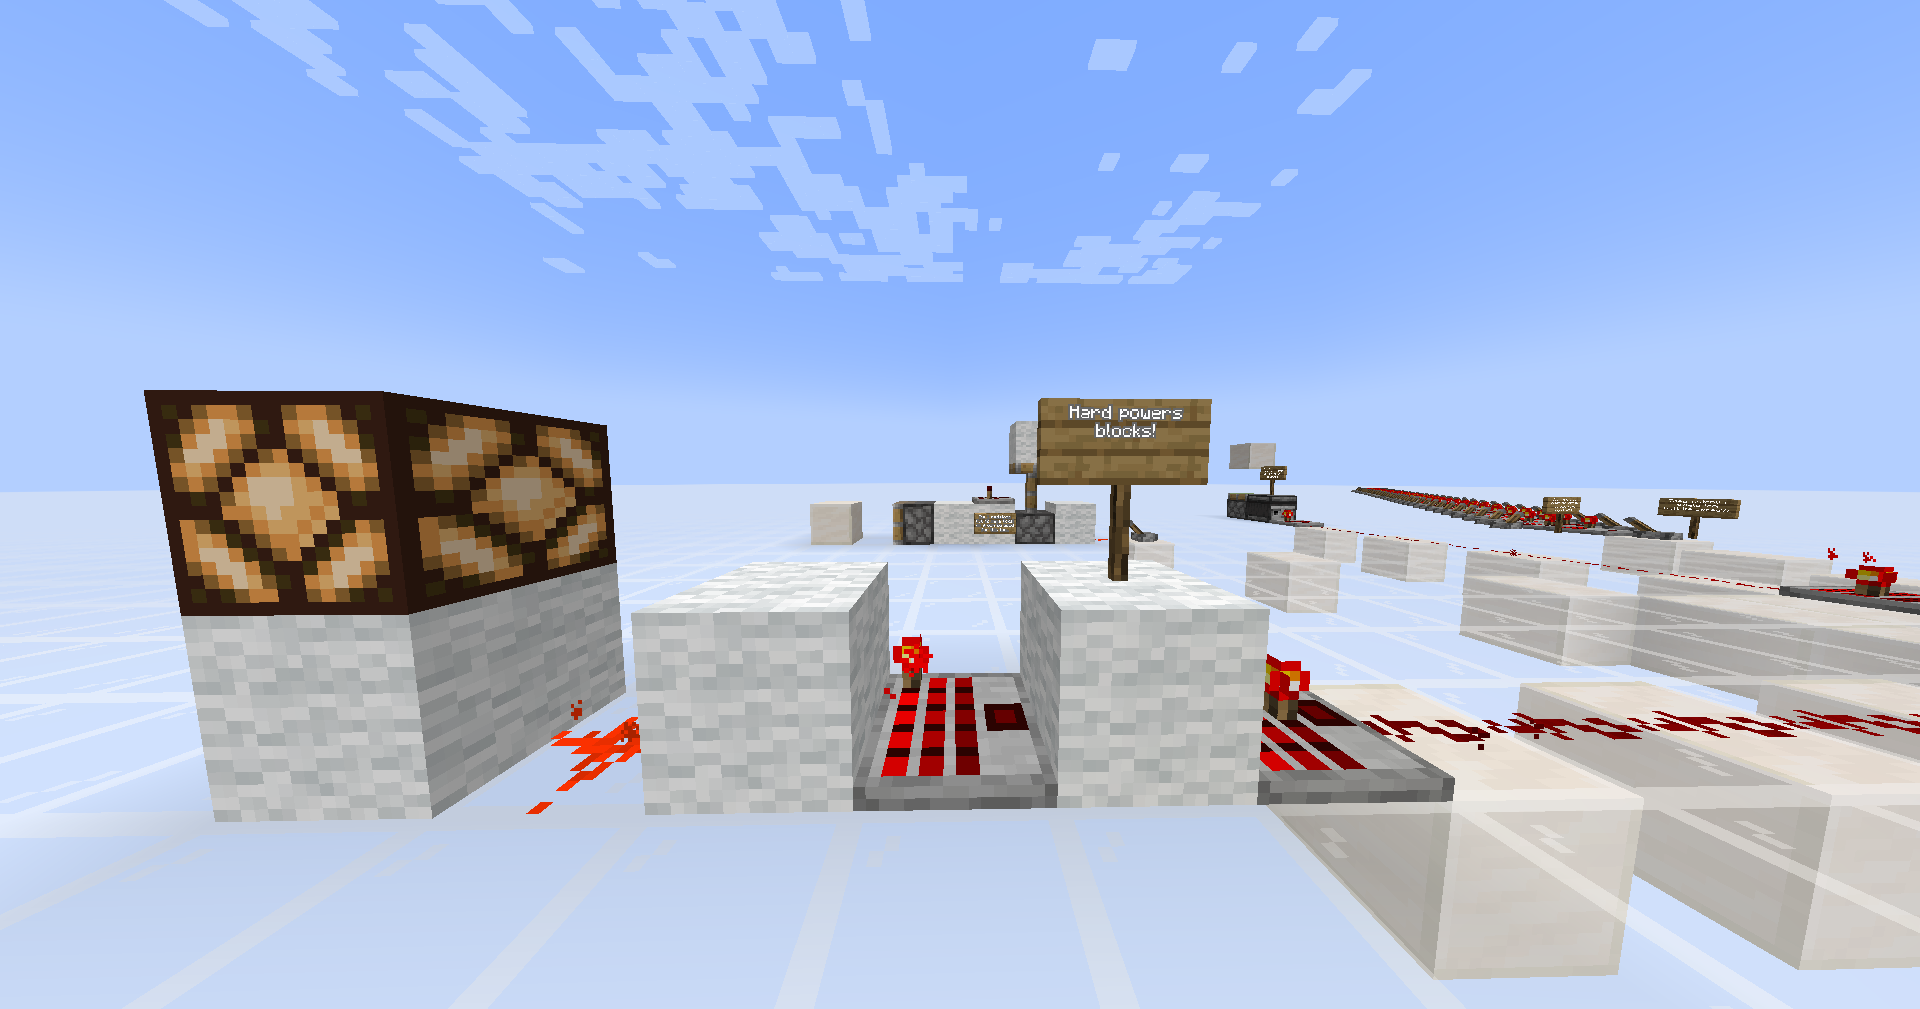
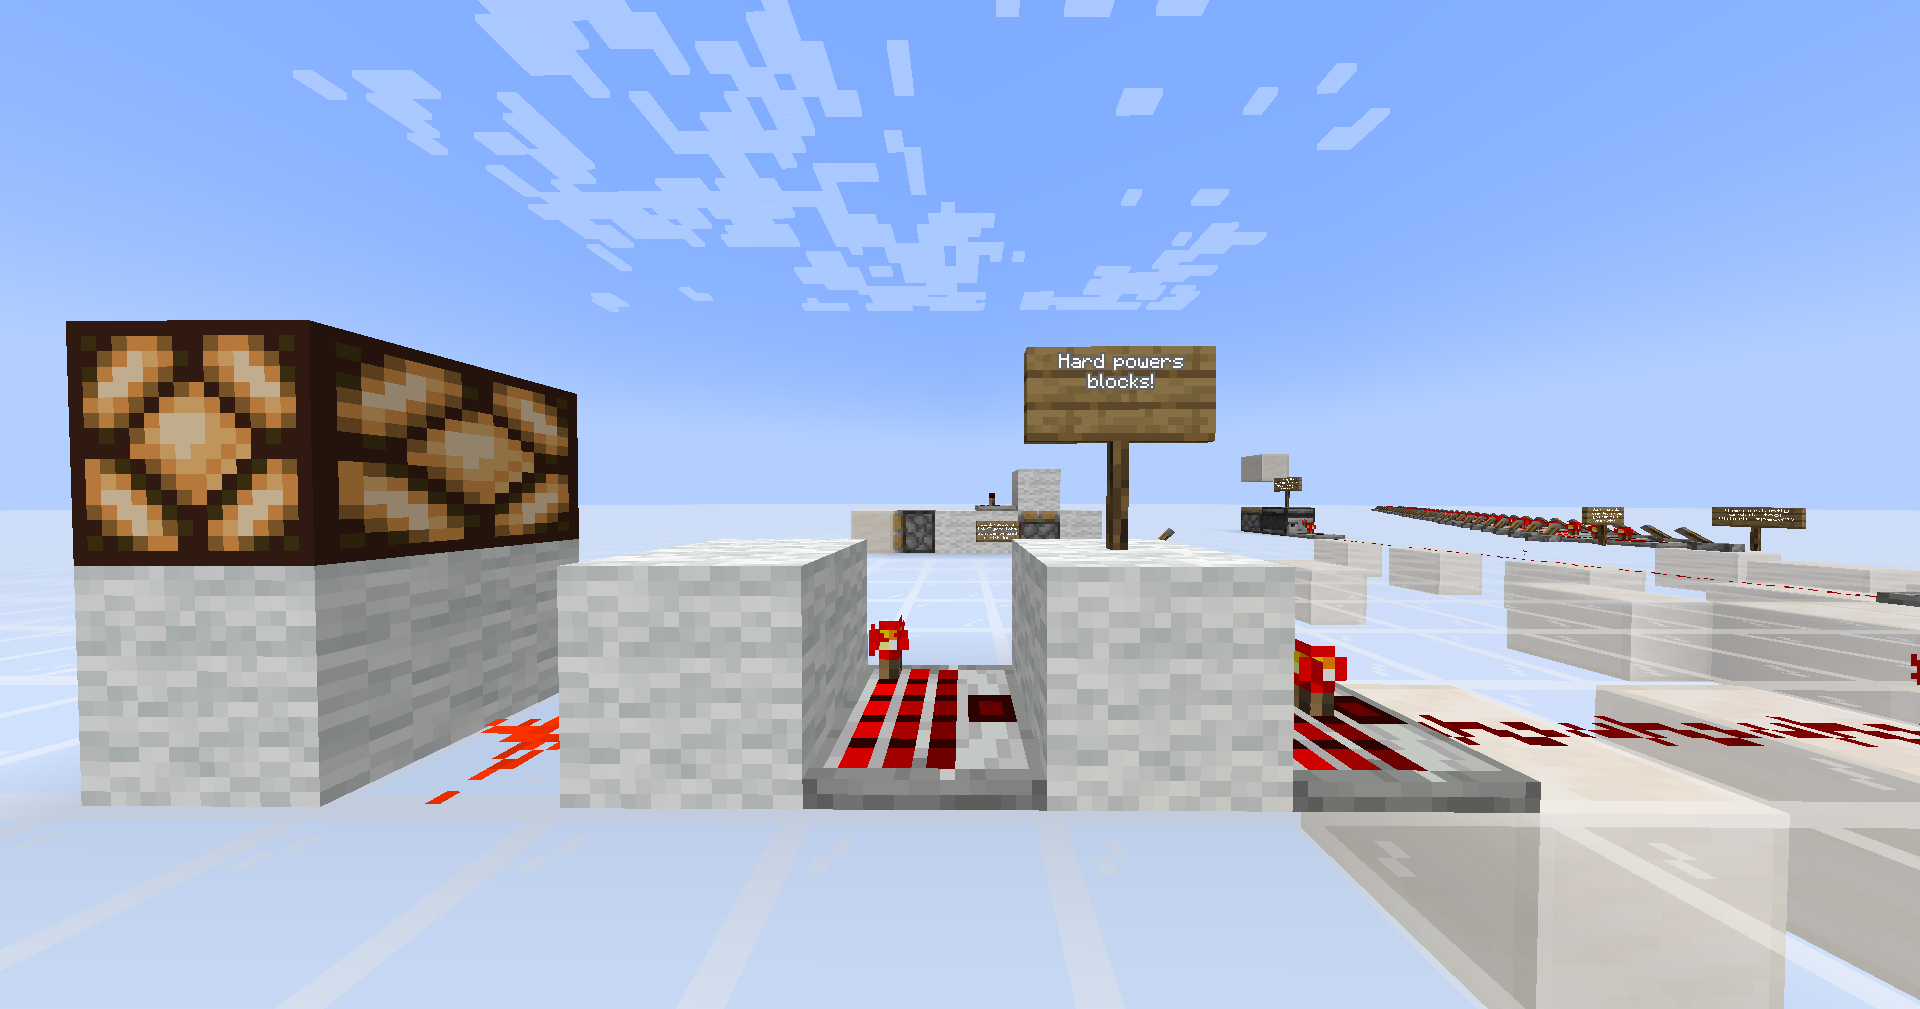
Texture Update for 1.19.1

diff --git a/remappedSrc/javredstone/redstone/transformers/block/RedstoneTransformerBlock.java b/remappedSrc/javredstone/redstone/transformers/block/RedstoneTransformerBlock.java
@@ -1,0 +1,98 @@
+package javredstone.redstone.transformers.block;
+
+import net.minecraft.block.AbstractBlock;
+import net.minecraft.block.AbstractRedstoneGateBlock;
+import net.minecraft.block.Block;
+import net.minecraft.block.BlockState;
+import net.minecraft.entity.player.PlayerEntity;
+import net.minecraft.item.ItemPlacementContext;
+import net.minecraft.particle.DustParticleEffect;
+import net.minecraft.state.StateManager;
+import net.minecraft.state.property.IntProperty;
+import net.minecraft.util.ActionResult;
+import net.minecraft.util.Hand;
+import net.minecraft.util.hit.BlockHitResult;
+import net.minecraft.util.math.BlockPos;
+import net.minecraft.util.math.Direction;
+import net.minecraft.util.math.random.Random;
+import net.minecraft.world.BlockView;
+import net.minecraft.world.World;
+import net.minecraft.world.WorldAccess;
+
+public class RedstoneTransformerBlock
+extends AbstractRedstoneGateBlock {
+    public static final IntProperty STEP = IntProperty.of("step", 0, 15);
+
+    public RedstoneTransformerBlock(AbstractBlock.Settings settings) {
+        super(settings);
+        this.setDefaultState((BlockState)((BlockState)((BlockState)((BlockState)this.stateManager.getDefaultState()).with(FACING, Direction.NORTH)).with(STEP, 0)).with(POWERED, false));
+    }
+
+    @Override
+    public ActionResult onUse(BlockState state, World world, BlockPos pos, PlayerEntity player, Hand hand, BlockHitResult hit) {
+        if (!player.getAbilities().allowModifyWorld) {
+            return ActionResult.PASS;
+        }
+        world.setBlockState(pos, (BlockState)state.cycle(STEP), Block.NOTIFY_ALL);
+        return ActionResult.success(world.isClient);
+    }
+
+    @Override
+    public int getUpdateDelayInternal(BlockState var1) {
+        return 2;
+    }
+    
+    @Override
+    public int getOutputLevel(BlockView world, BlockPos pos, BlockState state) {
+        return state.get(STEP).intValue();
+    }
+
+    public BlockState getState(WorldAccess world, BlockPos blockPos, BlockState blockState) {
+        int maxInputLevelSides = this.getMaxInputLevelSides(world, blockPos, blockState);
+        if (maxInputLevelSides > 0) {
+            return blockState.with(STEP, maxInputLevelSides);
+        } else {
+            return blockState;
+        }
+    }
+
+    @Override
+    public BlockState getPlacementState(ItemPlacementContext ctx) {
+        BlockState blockState = super.getPlacementState(ctx);
+        return getState(ctx.getWorld(), ctx.getBlockPos(), blockState);
+    }
+
+    @Override
+    public BlockState getStateForNeighborUpdate(BlockState state, Direction direction, BlockState neighborState, WorldAccess world, BlockPos pos, BlockPos neighborPos) {
+        if (!world.isClient() && direction.getAxis() != state.get(FACING).getAxis()) {
+            return getState(world, pos, state);
+        }
+        return super.getStateForNeighborUpdate(state, direction, neighborState, world, pos, neighborPos);
+    }
+
+    @Override
+    protected boolean isValidInput(BlockState state) {
+        return RedstoneTransformerBlock.isRedstoneGate(state);
+    }
+
+    @Override
+    public void randomDisplayTick(BlockState state, World world, BlockPos pos, Random random) {
+        if (!state.get(POWERED).booleanValue()) {
+            return;
+        }
+        Direction direction = state.get(FACING);
+        double d = (double)pos.getX() + 0.5 + (random.nextDouble() - 0.5) * 0.2;
+        double e = (double)pos.getY() + 0.4 + (random.nextDouble() - 0.5) * 0.2;
+        double f = (double)pos.getZ() + 0.5 + (random.nextDouble() - 0.5) * 0.2;
+        float g = -5.0f;
+        double h = (g /= 16.0f) * (float)direction.getOffsetX();
+        double i = g * (float)direction.getOffsetZ();
+        world.addParticle(DustParticleEffect.DEFAULT, d + h, e, f + i, 0.0, 0.0, 0.0);
+    }
+
+    @Override
+    protected void appendProperties(StateManager.Builder<Block, BlockState> builder) {
+        builder.add(FACING, STEP, POWERED);
+    }
+}
+

diff --git a/remappedSrc/javredstone/redstone/transformers/RedstoneTransformers.java b/remappedSrc/javredstone/redstone/transformers/RedstoneTransformers.java
@@ -1,0 +1,27 @@
+package javredstone.redstone.transformers;
+
+import javredstone.redstone.transformers.block.RedstoneTransformerBlock;
+import net.fabricmc.api.ModInitializer;
+import net.fabricmc.fabric.api.blockrenderlayer.v1.BlockRenderLayerMap;
+import net.fabricmc.fabric.api.object.builder.v1.block.FabricBlockSettings;
+import net.minecraft.block.Material;
+import net.minecraft.block.AbstractBlock.ContextPredicate;
+import net.minecraft.client.render.RenderLayer;
+import net.minecraft.item.BlockItem;
+import net.minecraft.item.Item;
+import net.minecraft.item.ItemGroup;
+import net.minecraft.sound.BlockSoundGroup;
+import net.minecraft.util.Identifier;
+import net.minecraft.util.registry.Registry;
+
+public class RedstoneTransformers implements ModInitializer {
+	public static final RedstoneTransformerBlock REDSTONE_TRANFORMER = new RedstoneTransformerBlock(FabricBlockSettings.of(Material.STONE).sounds(BlockSoundGroup.STONE).breakInstantly().nonOpaque());
+	
+	@Override
+	public void onInitialize() {
+		Registry.register(Registry.BLOCK, new Identifier("redstonetransformers", "redstone_transformer"), REDSTONE_TRANFORMER);
+		BlockRenderLayerMap.INSTANCE.putBlocks(RenderLayer.getCutout(), REDSTONE_TRANFORMER);
+		
+		Registry.register(Registry.ITEM, new Identifier("redstonetransformers", "redstone_transformer"), new BlockItem(REDSTONE_TRANFORMER, new Item.Settings().group(ItemGroup.BUILDING_BLOCKS)));
+	}
+}

diff --git a/remappedSrc/javredstone/redstone/transformers/mixin/RedstoneTransformersMixin.java b/remappedSrc/javredstone/redstone/transformers/mixin/RedstoneTransformersMixin.java
@@ -1,0 +1,8 @@
+package javredstone.redstone.transformers.mixin;
+
+import net.minecraft.client.gui.screen.TitleScreen;
+import org.spongepowered.asm.mixin.Mixin;
+@Mixin(TitleScreen.class)
+public class RedstoneTransformersMixin {
+
+}

diff --git a/CHANGELOG.md b/CHANGELOG.md
@@ -1,3 +1,7 @@
+## 0.1.2
+
+Texture changes requested by user for 1.19.1
+
 ## 0.1.1
 
 Release for 1.19.2
